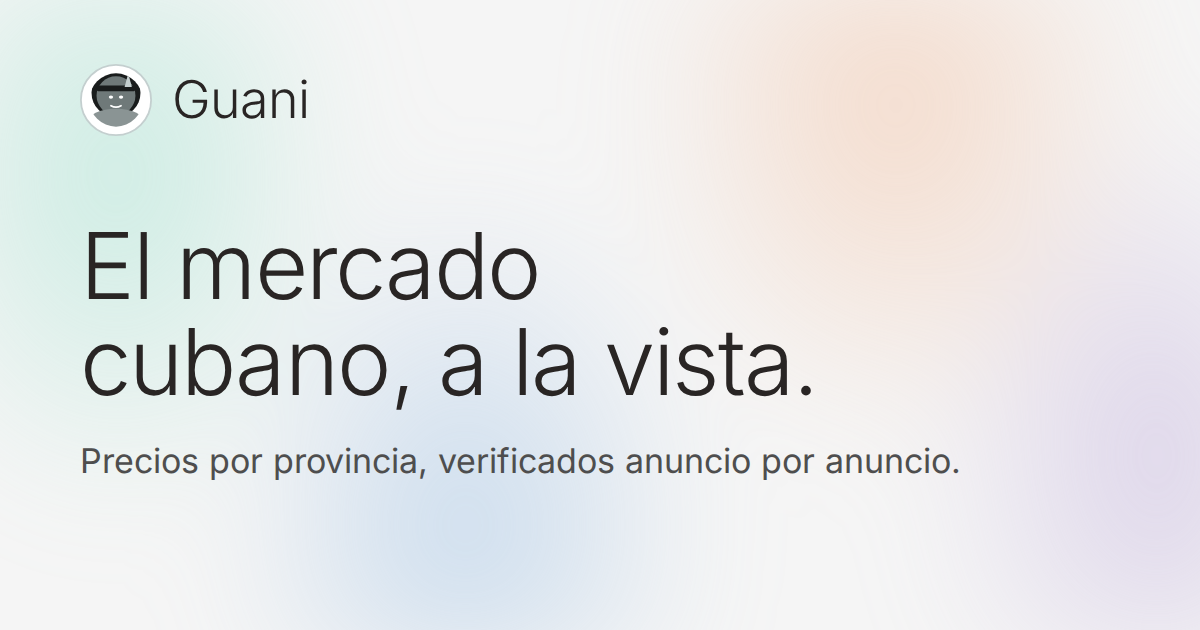
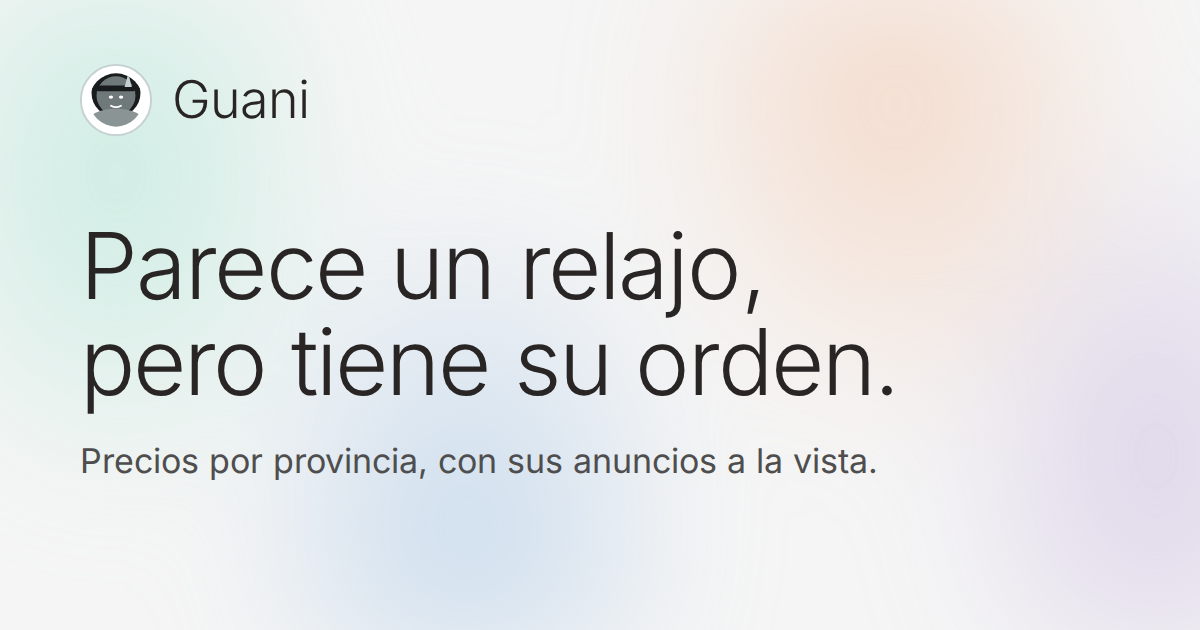
feat(marketing): alinear los textos de las tarjetas con la narrativa de Guani

diff --git a/src/saimc/web/templates/marketing_como_funciona.html b/src/saimc/web/templates/marketing_como_funciona.html
@@ -27,15 +27,15 @@
       </div>
       <div class="mc-panel" style="display: flex; align-items: center; gap: 24px; padding: 16px 28px">
         <div class="mc-step">3</div>
-        <div><div style="font-size: 32px; line-height: 40px; font-weight: 600">Los procesamos</div><div class="mc-muted" style="margin-top: 4px; font-size: 24px; line-height: 32px">De cada anuncio sacamos producto, precio y provincia.</div></div>
+        <div><div style="font-size: 32px; line-height: 40px; font-weight: 600">Los leemos y los revisamos</div><div class="mc-muted" style="margin-top: 4px; font-size: 24px; line-height: 32px">De cada anuncio sacamos producto, precio y provincia; una persona revisa cada uno.</div></div>
       </div>
       <div class="mc-panel" style="display: flex; align-items: center; gap: 24px; padding: 16px 28px">
         <div class="mc-step">4</div>
-        <div><div style="font-size: 32px; line-height: 40px; font-weight: 600">Te los mostramos como estadística</div><div class="mc-muted" style="margin-top: 4px; font-size: 24px; line-height: 32px">Rango, mediana y número de anuncios.</div></div>
+        <div><div style="font-size: 32px; line-height: 40px; font-weight: 600">Te enseñamos el precio</div><div class="mc-muted" style="margin-top: 4px; font-size: 24px; line-height: 32px">Rango, precio del medio y número de anuncios.</div></div>
       </div>
     </div>
     <div class="mc-panel" style="margin-top: 24px; padding: 32px 36px">
-      <div class="mc-title" style="font-size: 50px; line-height: 1.1">Cada precio, con sus anuncios detrás.</div>
+      <div class="mc-title" style="font-size: 50px; line-height: 1.1">Cada precio con su cuenta.</div>
       <div class="mc-inset" style="margin-top: 20px; padding: 16px 28px">
         <div style="font-size: 26px; line-height: 32px; font-weight: 500">00 anuncios detrás de esta cifra</div>
         <div style="margin-top: 12px; display: grid; grid-template-columns: 1fr 1.4fr 1fr; gap: 8px 16px; font-size: 24px; line-height: 32px">

diff --git a/src/saimc/web/templates/marketing_carrusel_portada.html b/src/saimc/web/templates/marketing_carrusel_portada.html
@@ -12,9 +12,9 @@
   <div class="mc-content" style="padding: 72px">
     <div class="mc-brand" style="--mc-logo: 84px">{% with avatar_clip_id = "mc-clip" %}{% include "_guani_avatar.html" %}{% endwith %}<span class="mc-wordmark">Guani</span></div>
     <div style="flex-grow: 1"></div>
-    <div class="mc-kicker">Mayoristas y minoristas</div>
-    <div class="mc-title" style="margin-top: 24px; font-size: 144px; line-height: 1.02">El mercado cubano, a la vista.</div>
-    <div class="mc-muted" style="margin-top: 40px; font-size: 44px; line-height: 56px; max-width: 900px">Lo que se ofrece de verdad, a cuánto y en qué provincia.</div>
+    <div class="mc-kicker">Precios por provincia</div>
+    <div class="mc-title" style="margin-top: 24px; font-size: 128px; line-height: 1.04">Parece un relajo, pero tiene su orden.</div>
+    <div class="mc-muted" style="margin-top: 40px; font-size: 44px; line-height: 56px; max-width: 900px">Lo que se anuncia en Cuba, provincia por provincia. Cada precio, con sus anuncios a la vista.</div>
     <div style="flex-grow: 1"></div>
     <div style="display: flex; align-items: center; gap: 24px; font-size: 34px; font-weight: 500">
       <div style="flex-grow: 1">Desliza: cómo leer los precios →</div>

diff --git a/src/saimc/web/templates/marketing_carrusel_cierre.html b/src/saimc/web/templates/marketing_carrusel_cierre.html
@@ -12,11 +12,11 @@
   <div class="mc-content" style="padding: 72px">
     <div class="mc-brand" style="--mc-logo: 84px">{% with avatar_clip_id = "mc-clip" %}{% include "_guani_avatar.html" %}{% endwith %}<span class="mc-wordmark">Guani</span></div>
     <div style="flex-grow: 1"></div>
-    <div class="mc-title" style="font-size: 136px; line-height: 1.04">Cada precio, con sus anuncios detrás.</div>
+    <div class="mc-title" style="font-size: 136px; line-height: 1.04">Cada precio con su cuenta.</div>
     <div style="margin-top: 40px"><span class="mc-chip mc-chip-ink" style="font-size: 40px; line-height: 48px; padding: 20px 40px">Síguenos: el sitio abre pronto.</span></div>
     <div style="flex-grow: 1"></div>
     <div style="display: flex; align-items: center; gap: 24px; font-size: 32px; line-height: 40px; font-weight: 500">
-      <div class="mc-muted" style="flex-grow: 1">Precios por provincia, de canales de WhatsApp de emprendedores cubanos.</div>
+      <div class="mc-muted" style="flex-grow: 1">Guani enseña el precio. Tú decides qué hacer con él.</div>
       {% if slide_counter %}<div class="mc-chip">{{ slide_counter }}</div>{% endif %}
     </div>
   </div>

diff --git a/src/saimc/web/templates/marketing_carrusel_consejo.html b/src/saimc/web/templates/marketing_carrusel_consejo.html
@@ -23,7 +23,7 @@
         <div style="position: absolute; left: 76%; font-size: 28px; line-height: 36px; font-weight: 500; transform: translateX(-70%); text-align: right">máximo<br><span class="mc-title" style="display: inline-block; margin-top: 8px; font-size: 48px; line-height: 52px">000</span></div>
       </div>
     </div>
-    <div class="mc-muted" style="margin-top: 40px; font-size: 34px; line-height: 48px">Un solo anuncio puede ser un caso raro. El rango muestra lo que se ve en el mercado, y la mediana marca el punto medio de lo observado.</div>
+    <div class="mc-muted" style="margin-top: 40px; font-size: 34px; line-height: 48px">Un solo anuncio puede ser un caso raro. El rango muestra lo que se ve en el mercado, y la mediana es el precio del medio de lo observado.</div>
     <div style="flex-grow: 1"></div>
     <div style="display: flex; align-items: center; gap: 16px">
       <div class="mc-brand" style="--mc-logo: 64px; flex-grow: 1">{% with avatar_clip_id = "mc-clip" %}{% include "_guani_avatar.html" %}{% endwith %}<span class="mc-wordmark" style="font-size: 44px">Guani</span></div>

diff --git a/src/saimc/web/templates/marketing_portada_facebook.html b/src/saimc/web/templates/marketing_portada_facebook.html
@@ -10,8 +10,8 @@
 <div class="mc" style="width: 1640px; height: 624px">
   <div class="mc-orbs mc-orbs-wide"></div>
   <div class="mc-content" style="padding: 72px 96px 72px 460px; justify-content: center">
-    <div class="mc-title" style="font-size: 96px; line-height: 1.05">Cada precio, con sus anuncios detrás.</div>
-    <div class="mc-muted" style="margin-top: 28px; font-size: 38px; line-height: 52px; max-width: 900px">Precios por provincia, sacados de los canales de WhatsApp de emprendedores cubanos.</div>
+    <div class="mc-title" style="font-size: 96px; line-height: 1.05">Medimos el mercado con la misma vara.</div>
+    <div class="mc-muted" style="margin-top: 28px; font-size: 38px; line-height: 52px; max-width: 900px">Hecho con los anuncios de quienes venden, provincia por provincia. Cada precio con su cuenta.</div>
     <div style="margin-top: 36px; display: flex; gap: 16px; flex-wrap: wrap">
       {% for producto in products %}
       <div class="mc-chip" style="font-size: 28px">{{ producto }}</div>

diff --git a/src/saimc/web/templates/marketing_story.html b/src/saimc/web/templates/marketing_story.html
@@ -12,7 +12,7 @@
   <div class="mc-content" style="padding: 250px 80px 340px; align-items: center">
     <div class="mc-brand" style="--mc-logo: 220px">{% with avatar_clip_id = "mc-clip" %}{% include "_guani_avatar.html" %}{% endwith %}</div>
     <div class="mc-title" style="margin-top: 48px; font-size: 150px; line-height: 1; text-align: center">Próximamente</div>
-    <div class="mc-muted" style="margin-top: 32px; font-size: 48px; line-height: 64px; text-align: center; max-width: 820px">Lo que se vende hoy en Cuba, con precio y provincia.</div>
+    <div class="mc-muted" style="margin-top: 32px; font-size: 48px; line-height: 64px; text-align: center; max-width: 820px">Lo que se anuncia hoy en Cuba, con su precio y su provincia.</div>
     <div style="flex-grow: 1"></div>
     <div class="mc-panel" style="width: 100%; padding: 44px 48px">
       <div style="font-size: 44px; line-height: 56px; font-weight: 600; text-align: center">¿Qué precio quieres ver primero?</div>

diff --git a/src/saimc/web/templates/marketing_og_compartir.html b/src/saimc/web/templates/marketing_og_compartir.html
@@ -12,8 +12,8 @@
   <div class="mc-content" style="padding: 64px 80px">
     <div class="mc-brand" style="--mc-logo: 72px">{% with avatar_clip_id = "mc-clip" %}{% include "_guani_avatar.html" %}{% endwith %}<span class="mc-wordmark">Guani</span></div>
     <div style="flex-grow: 1"></div>
-    <div class="mc-title" style="font-size: 92px; line-height: 1.04; text-wrap: balance">El mercado cubano, a la vista.</div>
-    <div class="mc-muted" style="margin-top: 28px; font-size: 34px; line-height: 46px; max-width: 900px">Precios por provincia, verificados anuncio por anuncio.</div>
+    <div class="mc-title" style="font-size: 92px; line-height: 1.04; text-wrap: balance">Parece un relajo, pero tiene su orden.</div>
+    <div class="mc-muted" style="margin-top: 28px; font-size: 34px; line-height: 46px; max-width: 900px">Precios por provincia, con sus anuncios a la vista.</div>
     <div style="flex-grow: 1"></div>
   </div>
 </div>

diff --git a/src/saimc/web/templates/marketing_dato_del_dia.html b/src/saimc/web/templates/marketing_dato_del_dia.html
@@ -51,7 +51,7 @@
           <div class="mc-dot" style="width: 24px; height: 24px; background: {{ row.color }}"></div>
           <div style="flex-grow: 1; font-size: 36px; line-height: 44px; font-weight: 600">{{ row.name }}</div>
           {% if row.is_cheapest and on.comparacion is not false %}
-          <div data-block="comparacion" class="mc-chip mc-chip-soft" style="padding: 4px 20px; font-size: 24px">más barata</div>
+          <div data-block="comparacion" class="mc-chip mc-chip-soft" style="padding: 4px 20px; font-size: 24px">mediana más baja</div>
           {% endif %}
         </div>
         {% if row.has_data %}

diff --git a/src/saimc/web/templates/marketing_libre.html b/src/saimc/web/templates/marketing_libre.html
@@ -29,7 +29,7 @@
     </div>
     <div style="flex-grow: 1"></div>
     <div style="display: flex; align-items: center; gap: 24px; font-size: 32px; line-height: 40px; font-weight: 500">
-      <div class="mc-muted" style="flex-grow: 1">Precios por provincia, de canales de WhatsApp de emprendedores cubanos.</div>
+      <div class="mc-muted" style="flex-grow: 1">Lo que se anuncia en Cuba, provincia por provincia.</div>
       {% if slide_counter %}<div class="mc-chip">{{ slide_counter }}</div>{% endif %}
     </div>
   </div>

diff --git a/tests/test_marketing_narrativa.py b/tests/test_marketing_narrativa.py
@@ -1,0 +1,106 @@
+"""El texto de las tarjetas sigue `docs/narrativa-guani.md`.
+
+Las frases esperadas salen del documento (capa por capa de su
+«Recomendación»: idea madre, vara, cuentas claras, cierre «tú decides»), no del
+código. Y el vocabulario que el documento manda evitar no puede aparecer en
+ninguna plantilla de tarjeta: «poner orden» suena a control, «caro/barato»
+opina, «se paga» promete lo que un anuncio no dice.
+"""
+
+from __future__ import annotations
+
+import re
+from pathlib import Path
+
+import pytest
+
+import saimc.web
+from saimc.marketing.caption import build_caption
+from saimc.marketing.context import BY_SLUG
+from saimc.marketing.html import card_html
+
+TEMPLATES = Path(saimc.web.__file__).parent / "templates"
+PRODUCTOS = {"products": ["Arroz", "Pollo"]}
+
+#: «Vocabulario de la marca», columna «Evitar».
+PROHIBIDAS = (
+    r"poner orden", r"ordenar el mercado", r"ordenamiento", r"mercado negro", r"bolsa negra",
+    r"\bcaro\b", r"\bbarat[oa]s?\b", r"se paga", r"en tiempo real", r"\bfiable\b",
+    r"algoritmo", r"garantizado", r"precio justo", r"scraping",
+)
+
+
+def _texto(slug: str, context: dict | None = None) -> str:
+    return card_html(BY_SLUG[slug], context if context is not None else PRODUCTOS)
+
+
+@pytest.mark.parametrize("plantilla", sorted(p.name for p in TEMPLATES.glob("marketing_*.html")))
+def test_ninguna_plantilla_de_tarjeta_usa_vocabulario_que_la_marca_evita(plantilla: str) -> None:
+    if plantilla in ("marketing_post.html", "marketing_semana.html"):
+        pytest.skip("pantallas del operador, no tarjetas")
+    texto = re.sub(r"\{#.*?#\}", "", (TEMPLATES / plantilla).read_text(), flags=re.S)
+    for patron in PROHIBIDAS:
+        assert not re.search(patron, texto, flags=re.I), f"{plantilla}: «{patron}»"
+
+
+class TestFrasesDelDocumento:
+    def test_portada_del_carrusel_abre_con_la_idea_madre(self) -> None:
+        html = _texto("carrusel-portada", {})
+
+        assert "Parece un relajo, pero tiene su orden." in html
+        assert "provincia por provincia" in html
+        assert "Mayoristas y minoristas" not in html  # Guani le habla a todo el pueblo
+
+    def test_el_consejo_dice_el_precio_del_medio(self) -> None:
+        assert "el precio del medio" in _texto("carrusel-consejo", {})
+
+    def test_el_cierre_es_la_prueba_y_el_tu_decides(self) -> None:
+        html = _texto("carrusel-cierre", {})
+
+        assert "Cada precio con su cuenta." in html
+        assert "Guani enseña el precio. Tú decides qué hacer con él." in html
+
+    def test_la_portada_de_facebook_es_la_vara(self) -> None:
+        html = _texto("portada-facebook")
+
+        assert "Medimos el mercado con la misma vara." in html
+        assert "Cada precio con su cuenta." in html
+
+    def test_la_vista_previa_al_compartir_es_la_idea_madre_y_no_promete_verificacion(self) -> None:
+        html = _texto("og-compartir", {})
+
+        assert "Parece un relajo, pero tiene su orden." in html
+        assert "verificados" not in html
+
+    def test_la_story_dice_lo_que_se_anuncia_y_no_lo_que_se_vende(self) -> None:
+        html = _texto("story-precalentamiento")
+
+        assert "Lo que se anuncia hoy en Cuba" in html
+        assert "se vende" not in html
+
+    def test_como_funciona_cuenta_que_una_maquina_lee_y_una_persona_revisa(self) -> None:
+        html = _texto("como-funciona", {})
+
+        assert "Los leemos y los revisamos" in html
+        assert "una persona revisa cada uno" in html
+        assert "estadística" not in html
+        assert "Los procesamos" not in html
+
+    def test_la_tarjeta_libre_cierra_con_lo_que_se_anuncia(self) -> None:
+        assert "Lo que se anuncia en Cuba, provincia por provincia." in _texto("libre", {})
+
+
+class TestSinOpinion:
+    def test_dato_del_dia_marca_la_mediana_mas_baja_no_la_mas_barata(self) -> None:
+        fuente = (TEMPLATES / "marketing_dato_del_dia.html").read_text()
+
+        assert "mediana más baja" in fuente
+        assert "más barata" not in fuente
+
+
+class TestTextoDelPost:
+    def test_el_texto_generico_sigue_la_idea_madre_y_el_tu_decides(self) -> None:
+        texto = build_caption(BY_SLUG["carrusel-portada"], {})
+
+        assert texto.startswith("Parece un relajo, pero tiene su orden.")
+        assert "Guani enseña el precio. Tú decides qué hacer con él." in texto

diff --git a/src/saimc/marketing/caption.py b/src/saimc/marketing/caption.py
@@ -20,7 +20,10 @@ HASHTAGS_MAX = 30
 HASHTAGS: tuple[str, ...] = ("#guani", "#preciosencuba", "#cuba", "#mercadocubano")
 
 _FUENTE = "Fuente: canales de WhatsApp de emprendedores cubanos. Muestra en formación."
-_GENERICO = "Guani: precios reales del mercado cubano, con los anuncios detrás de cada cifra."
+_GENERICO = (
+    "Parece un relajo, pero tiene su orden. Lo que se anuncia en Cuba, provincia por provincia, "
+    "con los anuncios detrás de cada cifra. Guani enseña el precio. Tú decides qué hacer con él."
+)
 
 
 def _anuncios(n: int) -> str:

diff --git a/tests/test_marketing_router.py b/tests/test_marketing_router.py
@@ -178,7 +178,7 @@ class TestTarjetasEstaticas:
             ("carrusel-portada", "Guani"),
             ("carrusel-consejo", "Guani"),
             ("story-precalentamiento", "Próximamente"),
-            ("portada-facebook", "Cada precio, con sus anuncios detrás"),
+            ("portada-facebook", "Medimos el mercado con la misma vara"),
             ("como-funciona", "De los grupos de WhatsApp a la cifra"),
             ("carrusel-cierre", "Guani"),
         ],
